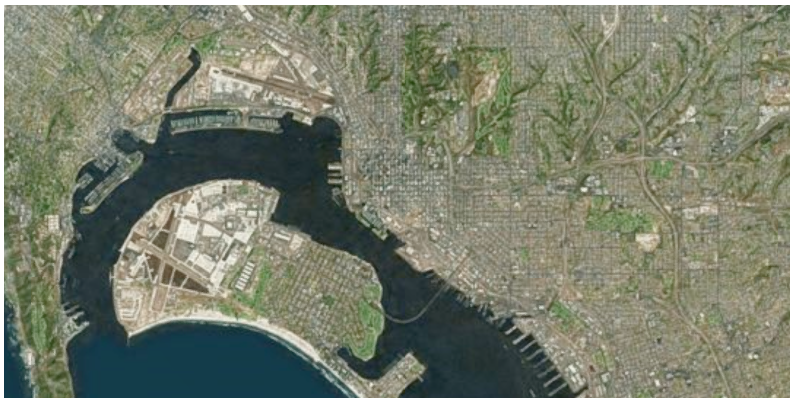
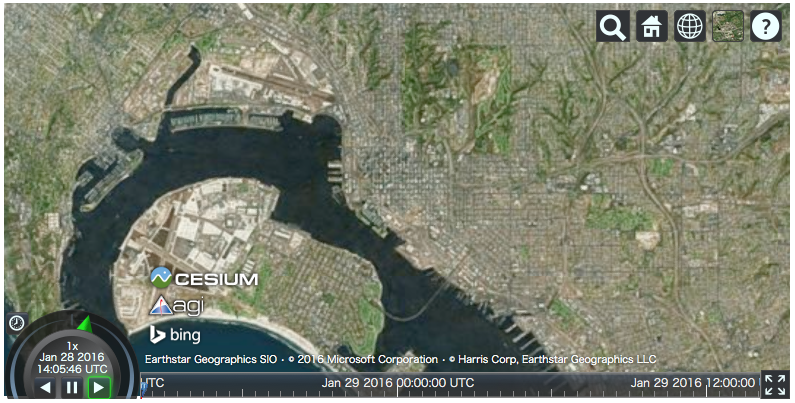
DOC: Update screenshots

Changed region(s): [[0.0, 0.0, 0.9975, 1.0], [0.4836, 0.7742, 0.5441, 0.804], [0.0, 0.1489, 0.0302, 0.1787]]

diff --git a/doc/source/basics.rst b/doc/source/basics.rst
@@ -57,12 +57,7 @@ Even though ``Viewer`` also has various type of user control menus, below exampl
 
 .. code-block:: python
 
-  >>> options = dict(animation=True, baseLayerPicker=False, fullscreenButton=False,
-  ...                geocoder=False, homeButton=False, infoBox=False, sceneModePicker=True,
-  ...                selectionIndicator=False, navigationHelpButton=False,
-  ...                timeline=False, navigationInstructionsInitiallyVisible=False)
-
-  >>> v = cesiumpy.Viewer(**options)
+  >>> v = cesiumpy.Viewer()
   >>> b = cesiumpy.Box(dimensions=(40e4, 30e4, 50e4), material=cesiumpy.color.RED, position=[-120, 40, 0])
   >>> v.entities.add(b)
   >>> v
@@ -93,7 +88,7 @@ The below example draws all entities on the map.
 
 .. code-block:: python
 
-  >>> v = cesiumpy.Viewer(**options)
+  >>> v = cesiumpy.Viewer()
 
   >>> label = cesiumpy.Label(position=[-90, 50, 0], text='entities')
   >>> v.entities.add(label)
@@ -149,7 +144,7 @@ The below example draws various ``Pin`` on the map.
 
 .. code-block:: python
 
-  >>> v = cesiumpy.Viewer(**options)
+  >>> v = cesiumpy.Viewer()
   >>> pin1 = cesiumpy.Pin()
   >>> bill1 = cesiumpy.Billboard(position=[-120, 40, 0], image=pin1)
   >>> v.entities.add(bill1)
@@ -176,7 +171,7 @@ If input length is 3, it will be regarded as the point specified by (``longitude
 
 .. code-block:: python
 
-  >>> v = cesiumpy.Viewer(**options)
+  >>> v = cesiumpy.Viewer()
   >>> v.camera.flyTo((-117.16, 32.71, 15000))
   >>> v
 
@@ -186,7 +181,7 @@ If input length is 3, it will be regarded as the point specified by (``longitude
 
 .. code-block:: python
 
-  >>> v = cesiumpy.Viewer(**options)
+  >>> v = cesiumpy.Viewer()
   >>> v.camera.flyTo((135, 30, 145, 45))
   >>> v
 
@@ -215,7 +210,7 @@ as the same as the above tutorial.
   >>> url = 'http://server.arcgisonline.com/ArcGIS/rest/services/World_Street_Map/MapServer'
   >>> imageryProvider = cesiumpy.ArcGisMapServerImageryProvider(url=url)
 
-  >>> v = cesiumpy.Viewer(imageryProvider=imageryProvider, **options)
+  >>> v = cesiumpy.Viewer(imageryProvider=imageryProvider)
   >>> v
 
 .. image:: ./_static/imagery01.png
@@ -228,7 +223,7 @@ Also you can use other providers.
   >>> credit = 'Black Marble imagery courtesy NASA Earth Observatory'
   >>> imageryProvider = cesiumpy.TileMapServiceImageryProvider(url=url, maximumLevel=8, credit=credit)
 
-  >>> v = cesiumpy.Viewer(imageryProvider=imageryProvider, **options)
+  >>> v = cesiumpy.Viewer(imageryProvider=imageryProvider)
   >>> v
 
 .. image:: ./_static/imagery02.png
@@ -238,7 +233,7 @@ Using ``OpenStreetMapImageryProvider`` can use OpenStreetMap as imagery.
 .. code-block:: python
 
   >>> imageryProvider = cesiumpy.OpenStreetMapImageryProvider()
-  >>> v = cesiumpy.Viewer(imageryProvider=imageryProvider, **options)
+  >>> v = cesiumpy.Viewer(imageryProvider=imageryProvider)
   >>> v
 
 .. image:: ./_static/imagery03.png
@@ -257,7 +252,7 @@ as the same as the above tutorial.
 
   >>> url = '//assets.agi.com/stk-terrain/world'
   >>> terrainProvider = cesiumpy.CesiumTerrainProvider(url=url)
-  >>> v = cesiumpy.Viewer(terrainProvider=terrainProvider, **options)
+  >>> v = cesiumpy.Viewer(terrainProvider=terrainProvider)
   >>> v
 
 .. image:: ./_static/terrain01.png
@@ -268,7 +263,7 @@ Passing ``requestWaterMask=True`` enables water effects.
 .. code-block:: python
 
   >>> terrainProvider = cesiumpy.CesiumTerrainProvider(url=url, requestWaterMask=True)
-  >>> v = cesiumpy.Viewer(terrainProvider=terrainProvider, **options)
+  >>> v = cesiumpy.Viewer(terrainProvider=terrainProvider)
   >>> v
 
 .. image:: ./_static/terrain02.png
@@ -301,7 +296,7 @@ You can create ``GeoJsonDataSource`` instannce then add to ``Viewer.DataSources`
 .. code-block:: python
 
   >>> ds = cesiumpy.GeoJsonDataSource('./example.geojson', markerSymbol='!')
-  >>> v = cesiumpy.Viewer(**options)
+  >>> v = cesiumpy.Viewer()
   >>> v.dataSources.add(ds)
   >>> v
 
@@ -347,7 +342,7 @@ You can use ``str`` specifying location where you can use coordinates as below.
 
 .. code-block:: python
 
-  >>> viewer = cesiumpy.Viewer(**options)
+  >>> viewer = cesiumpy.Viewer()
   >>> cyl = cesiumpy.Cylinder(position='Los Angeles', length=30000, topRadius=10000,
   ...                         bottomRadius=10000, material='AQUA')
   >>> v.entities.add(cyl)
